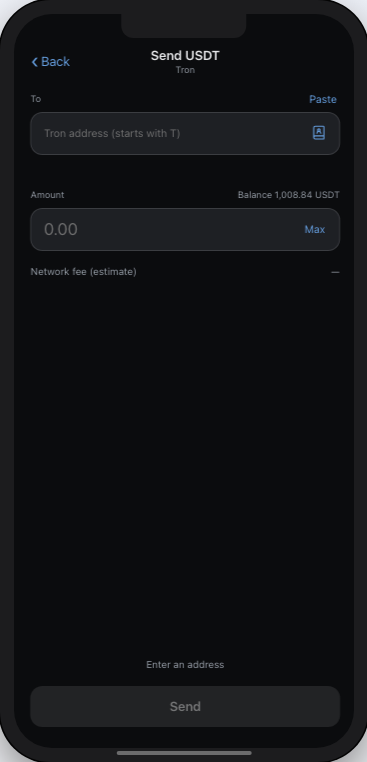
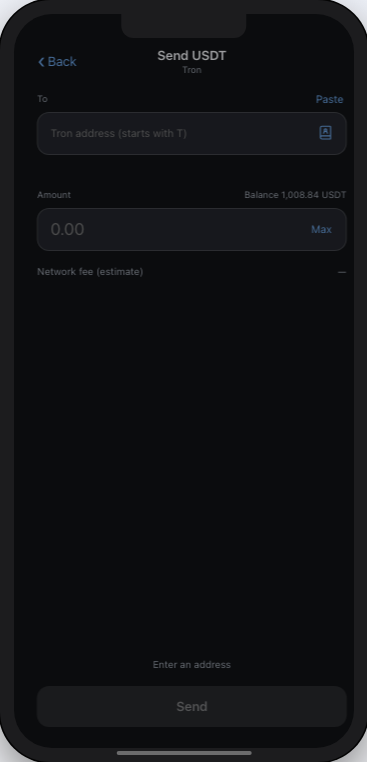
Send: the To label shows the saved name of the address in the field (To: NAME)
The name comes from the address book for this network and shows whenever the field holds exactly a saved address
(picked from the sheet, typed, pasted, or passed by ?to=); any other address removes it.

diff --git a/e2e/address-book.spec.ts b/e2e/address-book.spec.ts
@@ -117,6 +117,8 @@ async function clipOf(page: Page, selector: string) {
 
 // ---- every Tron address of the book is answered (from the risk seed), none ends in "Couldn't verify"
 import { readFileSync, mkdirSync } from "node:fs";
+const BOOK = JSON.parse(readFileSync("public/address-book.json", "utf8")).entries as Array<{ network: string; address: string; comment: string }>;
+const nameOf = (address: string) => BOOK.find((e) => e.address === address)!.comment;
 
 test("every Tron address in the address book gets a real answer, matching the risk seed", async ({ page }) => {
   const book = (JSON.parse(readFileSync("public/address-book.json", "utf8")).entries as Array<{ network: string; address: string; comment: string }>).filter((e) => e.network === "TRON");
@@ -198,4 +200,33 @@ test("when the check cannot complete the status shows an emoji badge the size of
   expect([Math.round(box.width), Math.round(box.height)]).toEqual([24, 24]);
   await expect(page.locator(".send-status-icon")).toHaveText(""); // no "?" glyph any more
   await page.locator("#phone-frame").screenshot({ path: `${SHOTS}/couldnt-verify-emoji.png` });
+});
+
+// ---- "To: NAME": the saved name of the address in the field
+test("the To label carries the saved name after a pick, and loses it when another address is typed", async ({ page }) => {
+  await page.setViewportSize({ width: 1440, height: 900 });
+  await mockWorker(page, { level: "caution" });
+  await openSend(page);
+  const label = page.locator("label[for=send-address]");
+  await expect(label).toHaveText("To");
+  const HTX = "TNaRAoLUyYEV2uF7GUrzSjRQTU8v5ZJ5VR";
+  await page.locator(".send-book-btn").click();
+  await page.locator(`.book-row[aria-label$="${HTX}"]`).click();
+  await expect(label).toHaveText(`To: ${nameOf(HTX)}`);
+  await page.screenshot({ path: `${SHOTS}/book-6-to-name.png`, clip: await clipOf(page, "#phone-frame") });
+  await page.locator("#send-address").fill("TLa2f6VPqDgRE67v1736s7bJ8Ray5wYjU7"); // not in the book
+  await expect(label).toHaveText("To");
+  await page.locator("#send-address").fill("TAzsQ9Gx8eqFNFSKbeXrbi45CuVPHzA8wr"); // typed, but it is a saved address
+  await expect(label).toHaveText(`To: ${nameOf("TAzsQ9Gx8eqFNFSKbeXrbi45CuVPHzA8wr")}`);
+  await page.locator("#send-address").fill("");
+  await expect(label).toHaveText("To");
+});
+
+test("a ?to= link with a saved address shows its name; with an unknown one it does not", async ({ page }) => {
+  await page.setViewportSize({ width: 1440, height: 900 });
+  await mockWorker(page, { level: "caution" });
+  await page.goto("/?list=aegis-super-list&network=Tron&token=USDT&to=TU4vEruvZwLLkSfV9bNw12EJTPvNr7Pvaa");
+  await expect(page.locator("label[for=send-address]")).toHaveText(`To: ${nameOf("TU4vEruvZwLLkSfV9bNw12EJTPvNr7Pvaa")}`);
+  await page.goto("/?list=aegis-super-list&network=Tron&token=USDT&to=TLa2f6VPqDgRE67v1736s7bJ8Ray5wYjU7");
+  await expect(page.locator("label[for=send-address]")).toHaveText("To");
 });

diff --git a/src/ui/send-screen.ts b/src/ui/send-screen.ts
@@ -5,7 +5,7 @@ import type { ChromeStyle } from "./phone-frame.ts";
 import { openOverlay, type OpenOverlay } from "./phone-overlay.ts";
 import { icon } from "./icons.ts";
 import { openAddressBookSheet } from "./address-book-sheet.ts";
-import { bookNetworkFor, type AddressBookEntry } from "../send/address-book.ts";
+import { bookNetworkFor, entriesForNetwork, loadAddressBook, type AddressBookEntry } from "../send/address-book.ts";
 import type { SendController, SendView, Tone } from "../send/send-session.ts";
 
 export interface SendScreenOptions {
@@ -94,6 +94,9 @@ export function mountSendScreen(options: SendScreenOptions): void {
   const addrRow = el("div", "send-label-row");
   const addrLabel = el("label", "send-label", "To");
   addrLabel.htmlFor = "send-address";
+  // "To: NAME": the saved name of the address in the field, when it is one of the address book's (see patch()).
+  const addrLabelName = el("span", "send-label-name");
+  addrLabel.append(addrLabelName);
   const paste = el("button", "send-link", "Paste");
   paste.type = "button";
   addrRow.append(addrLabel, paste);
@@ -223,6 +226,13 @@ export function mountSendScreen(options: SendScreenOptions): void {
   submit.addEventListener("click", () => controller.pressSend());
   done.addEventListener("click", options.onDone);
 
+  // --- address book names for the "To: NAME" label (this network's saved addresses; loaded once, cached)
+  let bookEntries: AddressBookEntry[] = [];
+  void loadAddressBook().then((entries) => {
+    bookEntries = entriesForNetwork(entries, bookNetworkFor(options.networkLabel));
+    if (root.isConnected) patch(controller.view());
+  });
+
   // --- patching
   let seenFocusRequests = controller.state.focusAddressRequests;
 
@@ -230,6 +240,10 @@ export function mountSendScreen(options: SendScreenOptions): void {
 
   function patch(view: SendView): void {
     title.textContent = view.title;
+    // The name shows only while the field holds exactly a saved address: type or paste any other and it goes away.
+    const saved = bookEntries.find((e) => e.address === view.address.value);
+    addrLabelName.textContent = saved ? `: ${saved.comment}` : "";
+    addrLabelName.hidden = !saved;
     if (addrInput.value !== view.address.value && document.activeElement !== addrInput) addrInput.value = view.address.value;
     if (amountInput.value !== view.amount.value && document.activeElement !== amountInput) amountInput.value = view.amount.value;
     addrInput.disabled = view.phase !== "form";

diff --git a/tests/send-screen.test.ts b/tests/send-screen.test.ts
@@ -232,6 +232,37 @@ describe("clear and caution flows", () => {
       vi.unstubAllGlobals();
     });
 
+    it("the To label shows the saved name of the address in the field, and drops it for any other address", async () => {
+      withBook();
+      const { q, type, frame } = mount();
+      const label = () => q<HTMLLabelElement>("label[for=send-address]");
+      await vi.waitFor(() => expect(frame).toBeTruthy());
+      expect(label().textContent).toBe("To");
+      q<HTMLButtonElement>(".send-book-btn").click();
+      await vi.waitFor(() => expect(frame.querySelector(".book-row")).not.toBeNull());
+      frame.querySelector<HTMLButtonElement>(".book-row")!.click(); // Binance hot wallet
+      await vi.waitFor(() => expect(label().textContent).toBe("To: Binance hot wallet"));
+      expect(label().querySelector(".send-label-name")!.hasAttribute("hidden")).toBe(false);
+      await type(q("#send-address"), "TJDENsfBJs4RFETt1X1W8wMDc8M5XnJhCe"); // another address, typed: not in the book
+      expect(label().textContent).toBe("To");
+      await type(q("#send-address"), "THJUJFyTnrBWb1ijWav7qfRBrjUuKgP49Z"); // typed, but it IS a saved address: its name shows
+      expect(label().textContent).toBe("To: Saved contact");
+      const input = q<HTMLInputElement>("#send-address");
+      input.value = "";
+      input.dispatchEvent(new Event("input", { bubbles: true }));
+      await vi.waitFor(() => expect(label().textContent).toBe("To"));
+      vi.unstubAllGlobals();
+    });
+
+    it("an address of another network in the book never names the field", async () => {
+      withBook();
+      const { q, type } = mount();
+      await vi.waitFor(() => expect(q<HTMLLabelElement>("label[for=send-address]")).not.toBeNull());
+      await type(q("#send-address"), "0x28c6c06298d514db089934071355e5743bf21d60"); // an ETH entry
+      expect(q<HTMLLabelElement>("label[for=send-address]").textContent).toBe("To");
+      vi.unstubAllGlobals();
+    });
+
     it("a risky saved address goes through the same check as a typed one", async () => {
       withBook();
       const { q, frame } = mount();

diff --git a/src/style.css b/src/style.css
@@ -216,7 +216,15 @@
   color: var(--phone-dim);
 }
 .send-label {
+  min-width: 0;
+  overflow: hidden;
+  text-overflow: ellipsis;
+  white-space: nowrap;
   font-size: 12px;
+}
+.send-label-name {
+  color: var(--send-dialog-text, inherit);
+  font-weight: 600;
 }
 .send-link {
   min-height: var(--send-touch);
